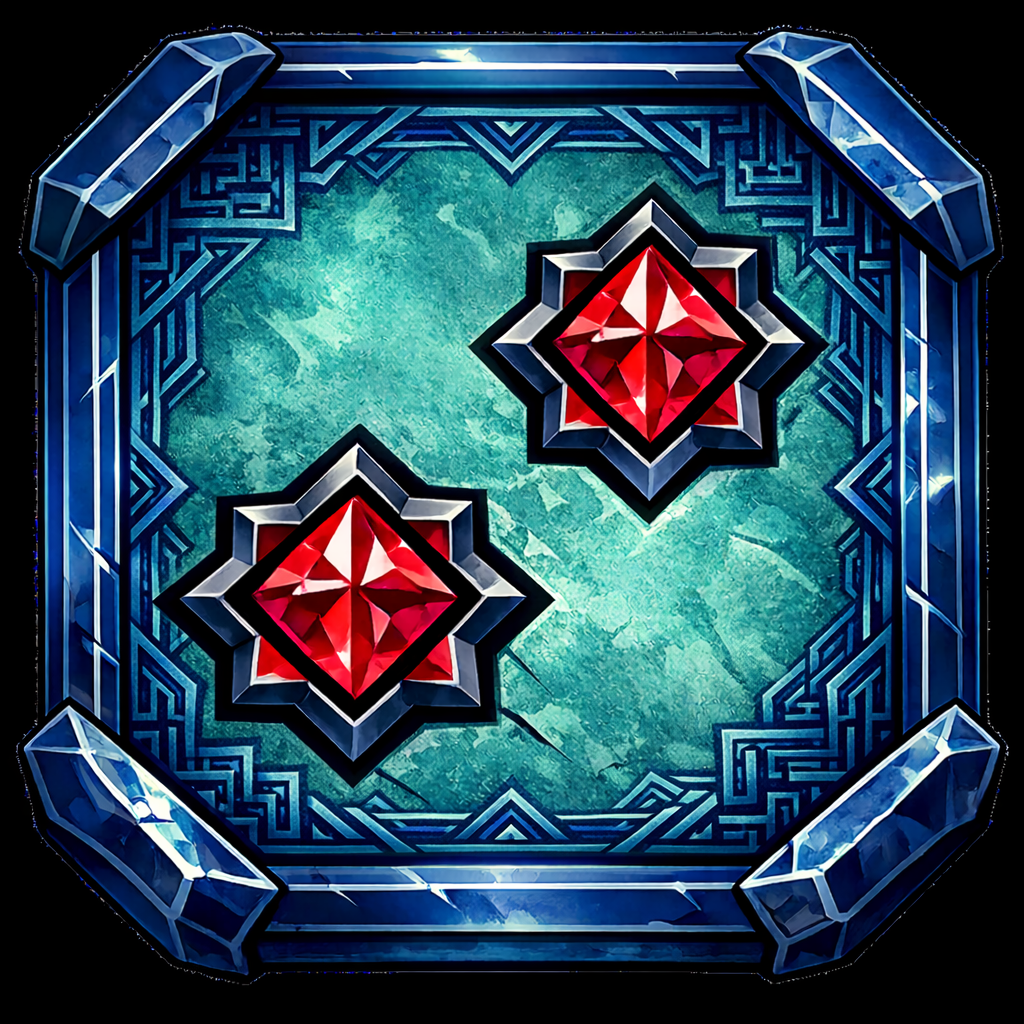
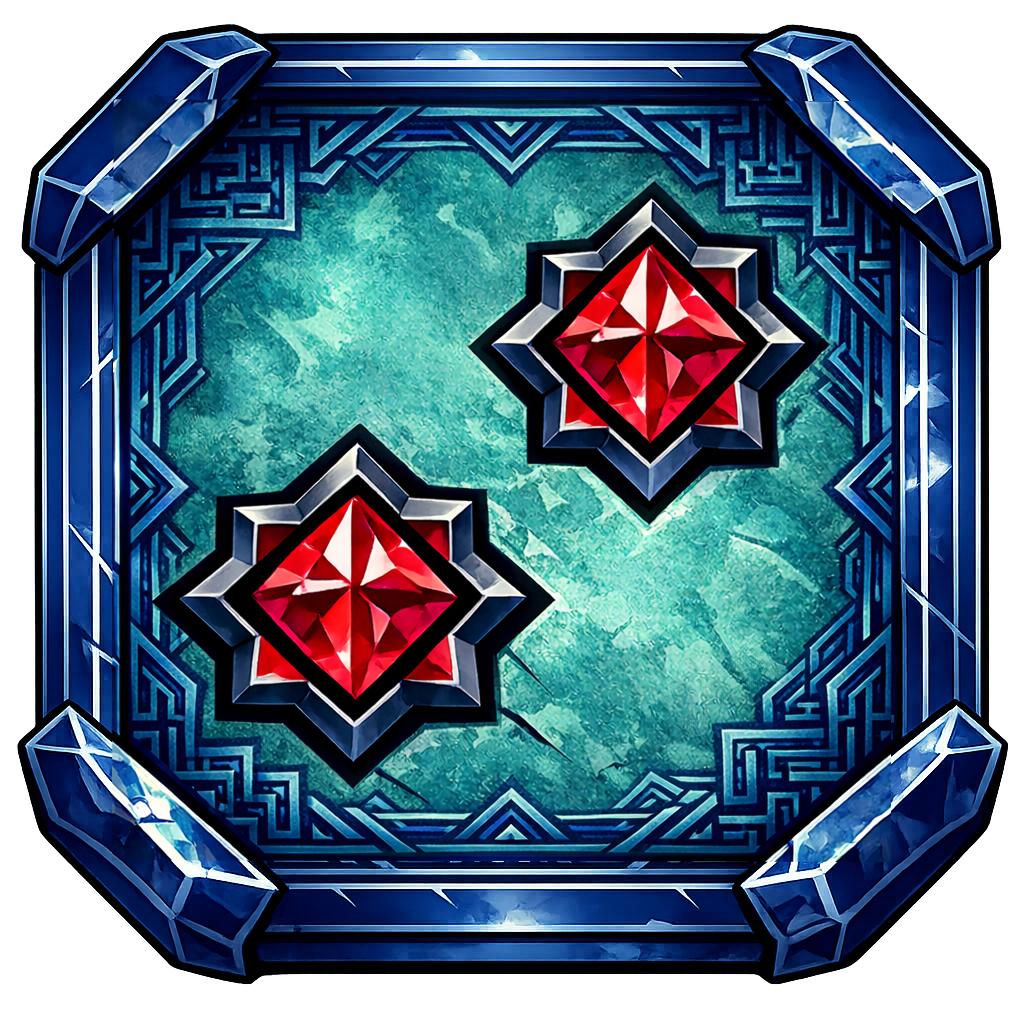
changed visualization gui

Changed region(s): [[0.0, 0.0, 1.0, 1.0]]

diff --git a/visualization.py b/visualization.py
@@ -1,117 +1,277 @@
-import pygame as pg
-import random
 import math
+import random
+from pathlib import Path
+
+import pygame as pg
 
 
-# 색상 및 버튼 정의
-WHITE = (255, 255, 255)
-GRAY = (200, 200, 200)
-DARK_GRAY = (150, 150, 150)
-BLACK = (0, 0, 0)
-button_rect = pg.Rect(10, 600, 200, 50) # x, y, width, height
+# Theme
+BG_TOP = (34, 24, 17)
+BG_BOTTOM = (18, 12, 9)
+PANEL = (28, 23, 19)
+PANEL_EDGE = (134, 98, 58)
+WHITE = (244, 236, 221)
+MUTED = (205, 182, 146)
+BAR_BG = (91, 77, 60)
+BAR_FILL = (204, 152, 78)
+BUTTON = (125, 90, 56)
+BUTTON_HOVER = (147, 107, 66)
+BUTTON_PRESS = (105, 75, 46)
+BUTTON_EDGE = (216, 176, 124)
+BLACK = (12, 16, 24)
 
-# 게이지 변수
-max_gauge = 100
-current_gauge = 0
-gauge_differential = 5
-gauge_dir = 1 # 1: 증가, -1: 감소
-bar_width = 200
-bar_height = 20
 
-def roll_weighted_die(charge_ratio, sigma=1.0):
-    """
-    charge_ratio: 0.0 ~ 1.0 범위로 정규화된 충전 비율
-    sigma: 분포 퍼짐 정도
-    """
-
+def roll_weighted_die(charge_ratio: float, sigma: float = 1.0) -> int:
+    """0~1 충전 비율에 따라 1~6의 주사위를 가중치로 뽑는다."""
     faces = [1, 2, 3, 4, 5, 6]
     weights = []
-
-    gauge_level = 1 + (charge_ratio * 5)  # 1~6 범위로 변환
+    gauge_level = 1 + (charge_ratio * 5)  # 1~6 범위
 
     for x in faces:
         weight = math.exp(-((x - gauge_level) ** 2) / (2 * sigma ** 2))
         weights.append(weight)
 
-    result = random.choices(faces, weights=weights)[0]
-    return result
+    return random.choices(faces, weights=weights)[0]
 
-def draw_button(screen, rect, text, is_hovered, is_clicked):
-    color = DARK_GRAY if is_clicked else GRAY
-    rect = pg.Rect(rect).inflate(10, 10) if is_hovered or is_clicked else pg.Rect(rect)
-    pg.draw.rect(screen, color, rect)
-    text_surf = font.render(text, True, BLACK)
-    text_rect = text_surf.get_rect(center=rect.center)
-    screen.blit(text_surf, text_rect)
 
-# Pygame 초기화
-pg.init()
-screen = pg.display.set_mode((500, 700))
-clock = pg.time.Clock()
-font = pg.font.SysFont("Arial", 50)
-background = pg.image.load("images/board2.png") # 배경 이미지 로드
-background = pg.transform.scale(background, (500, 500)) # 배경 이미지 크기 조정
+def load_scaled_image(path: Path, size: tuple[int, int], fallback_color: tuple[int, int, int]) -> pg.Surface:
+    try:
+        img = pg.image.load(str(path)).convert_alpha()
+        return pg.transform.smoothscale(img, size)
+    except Exception:
+        surf = pg.Surface(size, pg.SRCALPHA)
+        surf.fill((*fallback_color, 255))
+        pg.draw.rect(surf, (230, 236, 244), surf.get_rect(), width=3, border_radius=12)
+        return surf
 
-dice1_value = 1
-dice2_value = 1
-dice_value = dice1_value + dice2_value
 
-is_clicked = False
-running = True
+def load_font(size: int, family: str) -> pg.font.Font:
+    font_map = {
+        "keriskedu_bold": Path("fonts/KERISKEDU_B.ttf"),
+        "keriskedu_regular": Path("fonts/KERISKEDU_R.ttf"),
+        "katuri": Path("fonts/Katuri.ttf"),
+    }
+    path = font_map.get(family)
+    if path is not None and path.exists():
+        return pg.font.Font(str(path), size)
+    return pg.font.SysFont("arial", size)
 
-while running:
-    screen.fill(WHITE) # 화면 초기화
-    screen.blit(background, (0, 0)) # 배경 이미지 그리기
 
-    mouse_pos = pg.mouse.get_pos()
-    is_hovered = button_rect.collidepoint(mouse_pos)
-    draw_button(screen, button_rect, "Roll Dice", is_hovered, is_clicked)
+def draw_gradient(screen: pg.Surface, width: int, height: int) -> None:
+    top = pg.Color(*BG_TOP)
+    bottom = pg.Color(*BG_BOTTOM)
+    for y in range(height):
+        t = y / max(1, height - 1)
+        c = top.lerp(bottom, t)
+        pg.draw.line(screen, c, (0, y), (width, y))
 
-    if is_clicked:
-        current_gauge += gauge_differential * gauge_dir
-        if current_gauge >= max_gauge:
-            current_gauge = max_gauge
-            gauge_dir = -1
-        elif current_gauge <= 0:
-            current_gauge = 0
-            gauge_dir = 1
-    
-    # 게이지 바 그리기
-    pg.draw.rect(screen, GRAY, (10, 560, bar_width, bar_height)) # 배경 바
-    pg.draw.rect(screen, DARK_GRAY, (10, 560, int(bar_width * (current_gauge / max_gauge)), bar_height)) # 현재 게이지 바
 
-    for event in pg.event.get():
-        if event.type == pg.QUIT:
-            running = False
+def draw_rounded_panel(screen: pg.Surface, rect: pg.Rect, fill: tuple[int, int, int], edge: tuple[int, int, int], radius: int = 16) -> None:
+    pg.draw.rect(screen, fill, rect, border_radius=radius)
+    pg.draw.rect(screen, edge, rect, width=2, border_radius=radius)
 
-        # 마우스 클릭 시 주사위 굴리기
-        if event.type == pg.MOUSEBUTTONDOWN and is_hovered:
-            is_clicked = True
-        
-        if event.type == pg.MOUSEBUTTONUP and is_clicked:
-            is_clicked = False
 
-            charge_ratio = min(max(current_gauge / max_gauge, 0), 1) # 0.0 ~ 1.0 범위로 정규화
-            current_gauge = 0
+def blit_rounded_image(screen: pg.Surface, image: pg.Surface, rect: pg.Rect, radius: int) -> None:
+    clipped = pg.Surface((rect.w, rect.h), pg.SRCALPHA)
+    clipped.blit(image, (0, 0))
 
-            dice1_value = roll_weighted_die(charge_ratio)
-            dice2_value = roll_weighted_die(charge_ratio)
-            dice_value = dice1_value + dice2_value
+    mask = pg.Surface((rect.w, rect.h), pg.SRCALPHA)
+    mask.fill((255, 255, 255, 0))
+    pg.draw.rect(mask, (255, 255, 255, 255), mask.get_rect(), border_radius=radius)
+    clipped.blit(mask, (0, 0), special_flags=pg.BLEND_RGBA_MULT)
 
-    # 주사위 숫자 표시
-    dice1 = pg.image.load(f"images/dice{dice1_value}.png") # 주사위 이미지 로드
-    dice2 = pg.image.load(f"images/dice{dice2_value}.png")
+    screen.blit(clipped, rect.topleft)
 
-    dice1 = pg.transform.scale(dice1, (100, 100)) # 주사위 이미지 크기 조정
-    dice2 = pg.transform.scale(dice2, (100, 100))
-    
-    screen.blit(dice1, (250, 500))
-    screen.blit(dice2, (350, 500))
-    
-    text = font.render(str(dice_value), True, (0, 0, 0))
-    screen.blit(text, (250, 600))
 
-    pg.display.flip()
-    clock.tick(60)
+def draw_button(
+    screen: pg.Surface,
+    rect: pg.Rect,
+    text: str,
+    font: pg.font.Font,
+    hovered: bool,
+    pressed: bool,
+    disabled: bool = False,
+) -> None:
+    if disabled:
+        color = (74, 62, 48)
+        edge = (132, 108, 76)
+        txt_color = (188, 168, 139)
+    else:
+        color = BUTTON_PRESS if pressed else (BUTTON_HOVER if hovered else BUTTON)
+        edge = BUTTON_EDGE
+        txt_color = WHITE
+    draw_rounded_panel(screen, rect, color, edge, radius=14)
+    txt = font.render(text, True, txt_color)
+    txt_rect = txt.get_rect(center=rect.center)
+    screen.blit(txt, txt_rect)
 
-pg.quit()
+
+def main() -> None:
+    pg.init()
+
+    screen_w, screen_h = 1200, 820
+    screen = pg.display.set_mode((screen_w, screen_h))
+    pg.display.set_caption("Dice Duals - Dice Visualization")
+    clock = pg.time.Clock()
+
+    font_title = load_font(50, "keriskedu_bold")
+    font_button = load_font(34, "keriskedu_regular")
+    font_small = load_font(20, "katuri")
+
+    # Layout
+    board_size = min(int(screen_h * 0.92), 770)
+    board_rect = pg.Rect(0, 0, board_size, board_size)
+    board_rect.center = (screen_w // 2, screen_h // 2)
+
+    cluster_rect = pg.Rect(0, 0, 300, 272)
+    cluster_rect.center = (board_rect.centerx, board_rect.centery - 24)
+
+    gauge_rect = pg.Rect(0, 0, 270, 20)
+    gauge_rect.centerx = cluster_rect.centerx
+    gauge_rect.y = cluster_rect.y + 60
+
+    button_rect = pg.Rect(0, 0, 220, 52)
+    button_rect.centerx = cluster_rect.centerx
+    button_rect.y = gauge_rect.bottom+12
+ 
+    dice_size = (104, 104)
+    dice1_rect = pg.Rect(0, 0, *dice_size)
+    dice2_rect = pg.Rect(0, 0, *dice_size)
+    dice_gap = 22
+    total_dice_w = dice_size[0] * 2 + dice_gap
+    dice1_rect.x = cluster_rect.centerx - total_dice_w // 2
+    dice2_rect.x = dice1_rect.right + dice_gap
+    dice1_rect.y = button_rect.bottom + 12
+    dice2_rect.y = dice1_rect.y
+
+    # Assets
+    board_image = load_scaled_image(
+        Path("images/board/board2.png"),
+        (board_rect.w, board_rect.h),
+        (40, 50, 64),
+    )
+
+    dice_cache: dict[int, pg.Surface] = {}
+
+    def get_dice(v: int) -> pg.Surface:
+        if v in dice_cache:
+            return dice_cache[v]
+        surf = load_scaled_image(
+            Path(f"images/dice_images/dice{v}.png"),
+            dice_size,
+            (90, 96, 112),
+        )
+        dice_cache[v] = surf
+        return surf
+
+    # Gauge state
+    max_gauge = 100
+    current_gauge = 0
+    gauge_differential = 5
+    gauge_dir = 1
+    is_charging = False
+    shuffle_interval_ms = 70
+    next_shuffle_ms = 0
+    resolve_duration_ms = 3000
+    is_resolving = False
+    resolve_start_ms = 0
+    resolve_next_shuffle_ms = 0
+    final_dice1 = 1
+    final_dice2 = 1
+
+    # Dice state
+    dice1_value = 1
+    dice2_value = 1
+
+    running = True
+    while running:
+        mouse_pos = pg.mouse.get_pos()
+        hovered = button_rect.collidepoint(mouse_pos) and (not is_resolving)
+
+        for event in pg.event.get():
+            if event.type == pg.QUIT:
+                running = False
+            elif event.type == pg.MOUSEBUTTONDOWN and event.button == 1 and hovered and (not is_resolving):
+                is_charging = True
+                next_shuffle_ms = 0
+            elif event.type == pg.MOUSEBUTTONUP and event.button == 1 and is_charging and (not is_resolving):
+                is_charging = False
+                charge_ratio = min(max(current_gauge / max_gauge, 0.0), 1.0)
+                final_dice1 = roll_weighted_die(charge_ratio)
+                final_dice2 = roll_weighted_die(charge_ratio)
+                is_resolving = True
+                resolve_start_ms = pg.time.get_ticks()
+                resolve_next_shuffle_ms = resolve_start_ms
+
+        if is_charging:
+            current_gauge += gauge_differential * gauge_dir
+            if current_gauge >= max_gauge:
+                current_gauge = max_gauge
+                gauge_dir = -1
+            elif current_gauge <= 0:
+                current_gauge = 0
+                gauge_dir = 1
+            now_ms = pg.time.get_ticks()
+            if now_ms >= next_shuffle_ms:
+                dice1_value = random.randint(1, 6)
+                dice2_value = random.randint(1, 6)
+                next_shuffle_ms = now_ms + shuffle_interval_ms
+
+        if is_resolving:
+            now_ms = pg.time.get_ticks()
+            elapsed = max(0, now_ms - resolve_start_ms)
+            p = min(1.0, elapsed / resolve_duration_ms)
+            # 처음에는 빠르게 바뀌고, 끝으로 갈수록 느려지게 간격을 증가시킨다.
+            interval = int(30 + (470 * (p ** 2.2)))
+            if now_ms >= resolve_next_shuffle_ms and p < 0.98:
+                dice1_value = random.randint(1, 6)
+                dice2_value = random.randint(1, 6)
+                resolve_next_shuffle_ms = now_ms + interval
+            if p >= 1.0:
+                dice1_value = final_dice1
+                dice2_value = final_dice2
+                is_resolving = False
+                current_gauge = 0
+                gauge_dir = 1
+
+        # Draw
+        draw_gradient(screen, screen_w, screen_h)
+
+        # 보드 자체를 라운드 마스크로 잘라서 그린다.
+        board_radius = 28
+        blit_rounded_image(screen, board_image, board_rect, board_radius)
+        pg.draw.rect(screen, PANEL_EDGE, board_rect, width=2, border_radius=board_radius)
+
+        # Center cluster panel (button, bar, dice)
+        draw_rounded_panel(screen, cluster_rect, (24, 20, 17), (142, 104, 62), radius=18)
+
+        title = font_title.render("Dice Roll", True, WHITE)
+        screen.blit(title, title.get_rect(center=(cluster_rect.centerx, cluster_rect.y + 35)))
+
+        # Gauge
+        pg.draw.rect(screen, BAR_BG, gauge_rect, border_radius=8)
+        fill_w = int(gauge_rect.w * (current_gauge / max_gauge))
+        if fill_w > 0:
+            fill_rect = pg.Rect(gauge_rect.x, gauge_rect.y, fill_w, gauge_rect.h)
+            pg.draw.rect(screen, BAR_FILL, fill_rect, border_radius=8)
+        pg.draw.rect(screen, (186, 154, 104), gauge_rect, width=2, border_radius=8)
+
+        # Button
+        if is_resolving:
+            button_text = "Rolling..."
+        else:
+            button_text = "Release" if is_charging else "Roll Dice"
+        draw_button(screen, button_rect, button_text, font_button, hovered, is_charging, disabled=is_resolving)
+
+        # Dice
+        for rect, value in ((dice1_rect, dice1_value), (dice2_rect, dice2_value)):
+            screen.blit(get_dice(value), rect.topleft)
+
+        pg.display.flip()
+        clock.tick(60)
+
+    pg.quit()
+
+
+if __name__ == "__main__":
+    main()
